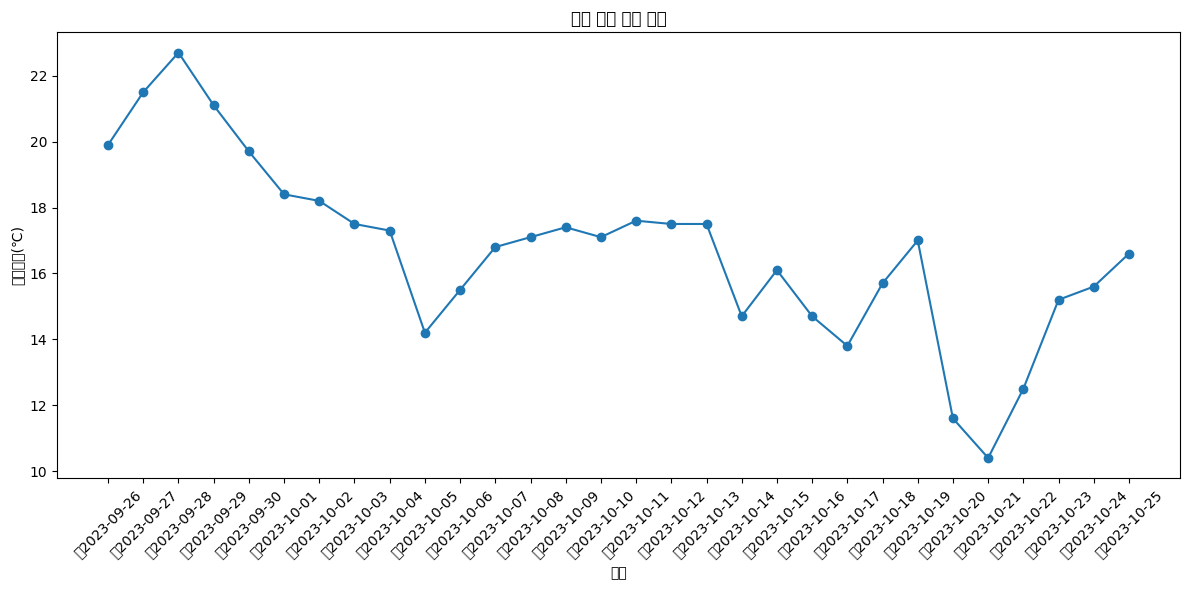
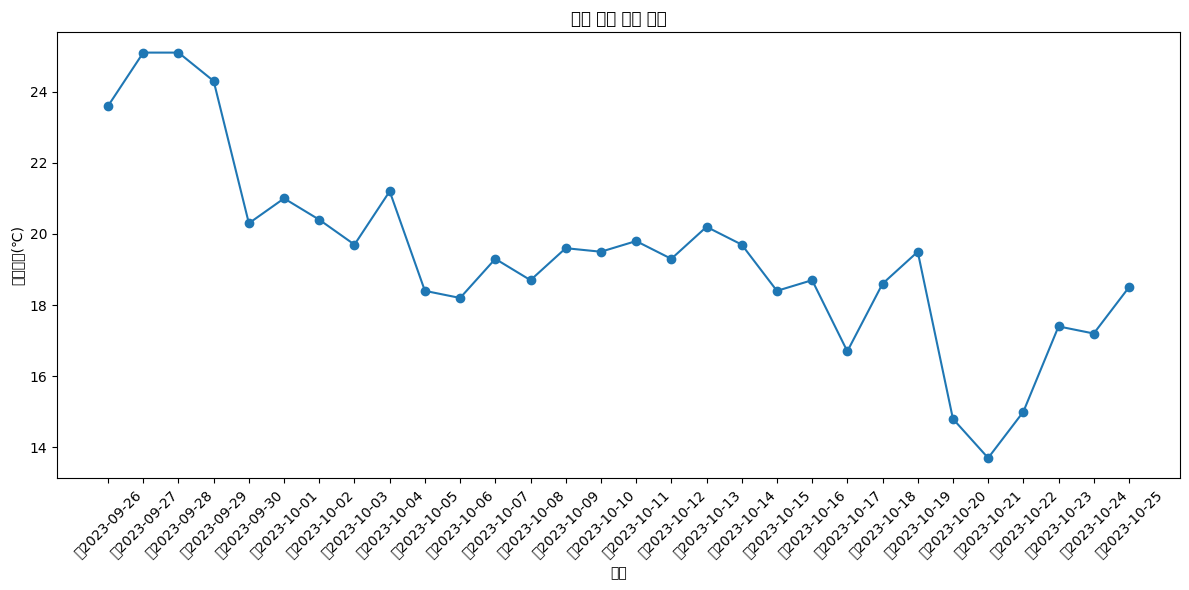
업로드 분석후 출력

diff --git a/webcc/templates/upload.html b/webcc/templates/upload.html
@@ -1,0 +1,13 @@
+<!DOCTYPE html>
+<html>
+<head>
+    <title>파일 업로드</title>
+</head>
+<body>
+    <h1>파일을 업로드하세요</h1>
+    <form method="POST" action="/upload" enctype="multipart/form-data">
+        <input type="file" name="file" accept=".csv">
+        <input type="submit" value="업로드">
+    </form>
+</body>
+</html>

diff --git a/webcc/webcccsv.py b/webcc/webcccsv.py
@@ -1,12 +1,16 @@
 import csv
-from flask import Flask, render_template, send_from_directory
+from flask import Flask, render_template, request
 import os
 import matplotlib.pyplot as plt
 
 app = Flask(__name__)
 
-#작업 디렉터리 변경
-os.chdir(r'C:\Users\218\Desktop\webcc')  # 백슬래시를 이스케이프 문자로 처리하기 위해 'r' 접두어 사용
+# 작업 디렉터리 변경
+os.chdir(r'C:\Users\218\Desktop\webcc')
+
+# 업로드된 파일을 저장할 디렉터리 설정
+UPLOAD_FOLDER = 'uploads'
+app.config['UPLOAD_FOLDER'] = UPLOAD_FOLDER
 
 # 데이터 파일을 읽어서 리스트로 반환하는 함수
 def read_data(filename):
@@ -26,7 +30,6 @@ def analyze_and_plot_data(data):
         date = row['날짜']
         avg_temp = row['평균기온(℃)']
         
-        # 빈 값이 있는 행을 건너뛰기
         if avg_temp:
             dates.append(date)
             avg_temperatures.append(float(avg_temp))
@@ -36,27 +39,37 @@ def analyze_and_plot_data(data):
     plt.title('서울 일일 평균 기온')
     plt.xlabel('날짜')
     plt.ylabel('평균기온(℃)')
-    plt.xticks(rotation=45)  # x축 라벨을 45도 회전
+    plt.xticks(rotation=45)
     plt.tight_layout()
 
-    # 그래프를 이미지로 저장
     image_path = os.path.join('static', 'temperature_plot.png').replace('\\', '/')
-    # 디버깅: 이미지 경로를 출력합니다.
-    print("이미지 경로:", image_path)
     plt.savefig(image_path, bbox_inches='tight')
 
     return image_path
 
-# 데이터 파일 경로
-data_file = 'data.csv'
-
-# 데이터 분석 및 웹페이지 렌더링
+# HTML 폼을 표시하는 뷰 함수
 @app.route('/')
-def analyze_data():
-    data = read_data(data_file)
-    plot = analyze_and_plot_data(data)
-    img_path = os.path.join(app.root_path, 'static', 'temperature_plot.png')
-    return render_template('main.html', data=data, img_path=img_path)
+def upload_form():
+    return render_template('upload.html')
+
+# 업로드된 파일을 처리하는 뷰 함수
+@app.route('/upload', methods=['POST'])
+def upload_file():
+    if 'file' not in request.files:
+        return "No file part"
+    
+    file = request.files['file']
+    
+    if file.filename == '':
+        return "No selected file"
+    
+    if file:
+        filename = os.path.join(app.config['UPLOAD_FOLDER'], 'uploaded_data.csv')
+        file.save(filename)
+        data = read_data(filename)
+        plot = analyze_and_plot_data(data)
+        img_path = os.path.join(app.root_path, 'static', 'temperature_plot.png')
+        return render_template('result.html', data=data, img_path=img_path)
 
 if __name__ == '__main__':
     app.run(debug=True)
